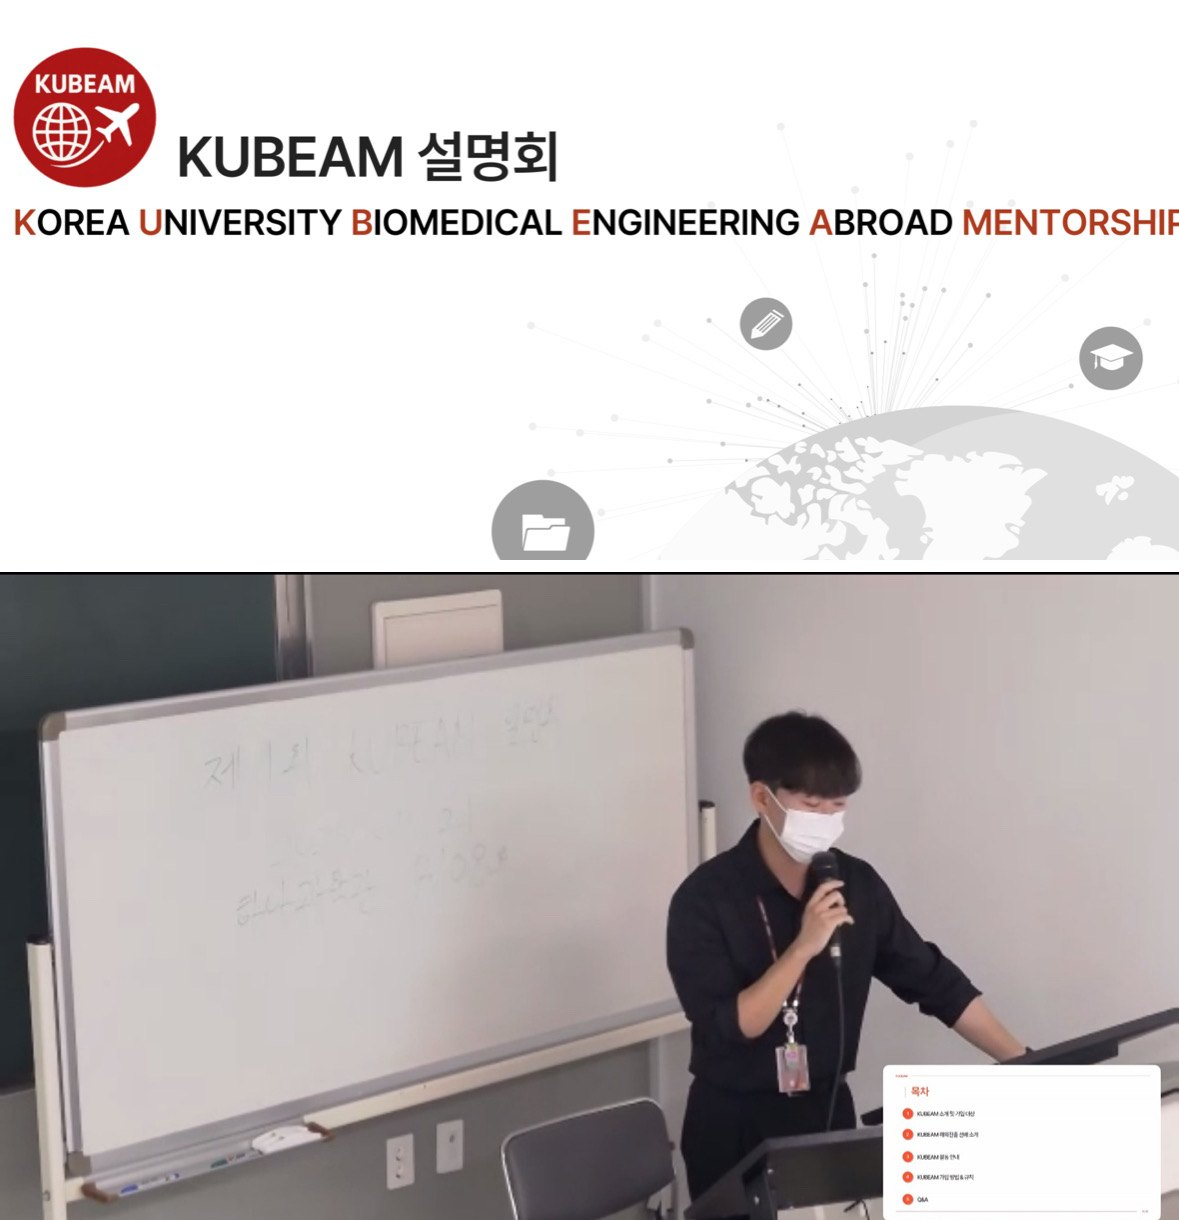
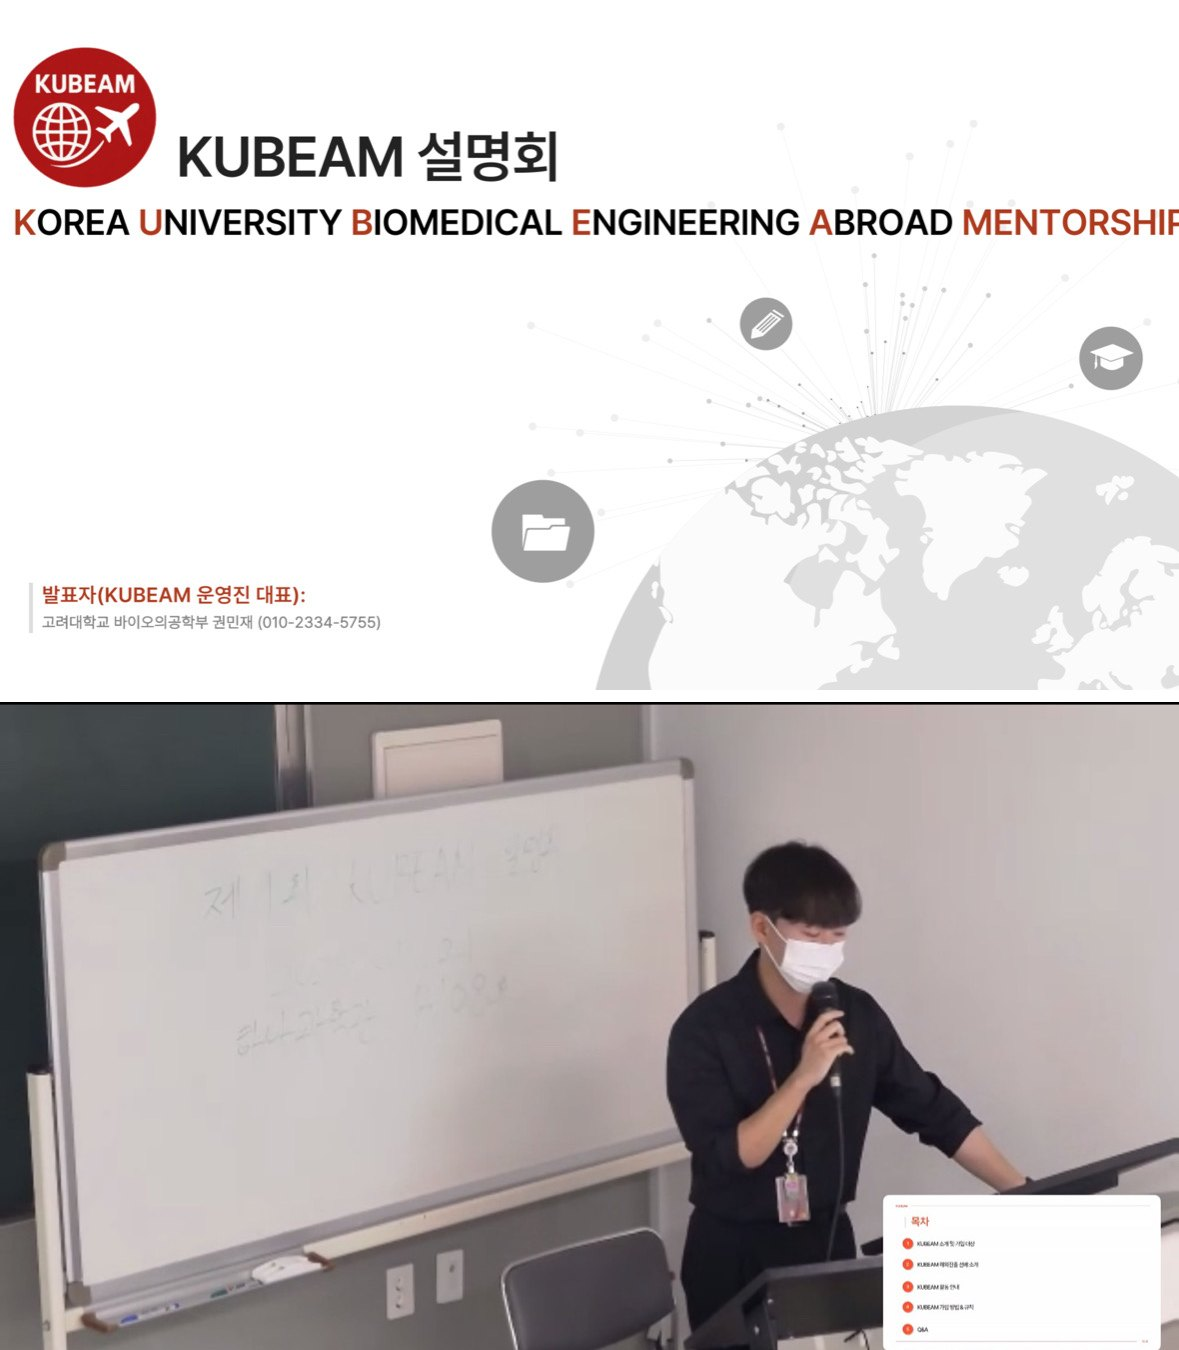
Add Alumni Day photo; restore KUBEAM title slide; blur other Zoom participants
Claude-Session: https://claude.ai/code/session_01YDQGNo6ufsxmGsMUhBGmF6

Changed region(s): [[0.0, 0.0311, 1.0, 0.9033], [0.0611, 0.5607, 1.0, 0.9967]]

diff --git a/index.html b/index.html
@@ -692,8 +692,8 @@ var ACTIVITIES = [
       'Built a curated study-abroad resource hub, alumni interviews, and member database &mdash; establishing KUBEAM as a de facto network connecting overseas alumni and faculty with current applicants.'
     ],
     imgs: [
-      { src: 'KUBEAM-info-session.jpg', cap: 'Presenting the first KUBEAM info session as founder and president: program overview and how members can plan exchange, Ph.D., and international career paths.' },
-      { src: 'KUBEAM-online-session.jpg', cap: 'Online KUBEAM session introducing the mentorship network to students and alumni.' },
+      { src: 'KUBEAM-info-session.jpg?v=2', cap: 'Presenting the first KUBEAM info session as founder and president: program overview and how members can plan exchange, Ph.D., and international career paths.' },
+      { src: 'KUBEAM-online-session.jpg?v=2', cap: 'Online KUBEAM session introducing the mentorship network to students and alumni.' },
       { src: 'KUBEAM-alumni-seminars.jpg', cap: 'KUBEAM alumni seminar series: talks and small-group mentoring by KU BME alumni now serving as faculty or pursuing graduate study abroad.' }
     ]
   },
@@ -719,7 +719,9 @@ var ACTIVITIES = [
       'Advised and supported planning and execution of academic, cultural, and community events for 500+ undergraduates.',
       'Led a 30+ member committee to organize the department alumni day, securing over $22,000 in departmental and corporate sponsorships to deliver a large-scale event.'
     ],
-    imgs: []
+    imgs: [
+      { src: 'StudentCouncil-AlumniDay.jpg', cap: 'Student council and organizing committee at the 2nd KU BME Alumni Day (Nov 2025), a sponsored event for students and alumni.' }
+    ]
   },
   {
     head: 'Founder &amp; Chief Technology Officer, Radicheck',
